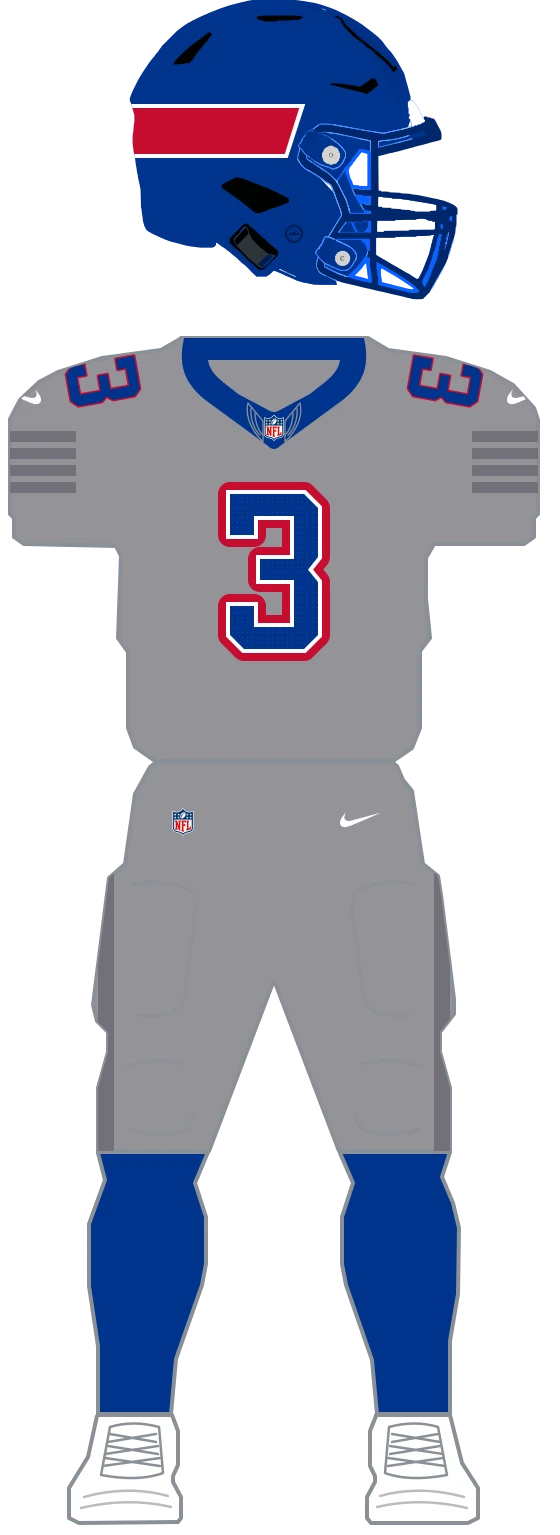
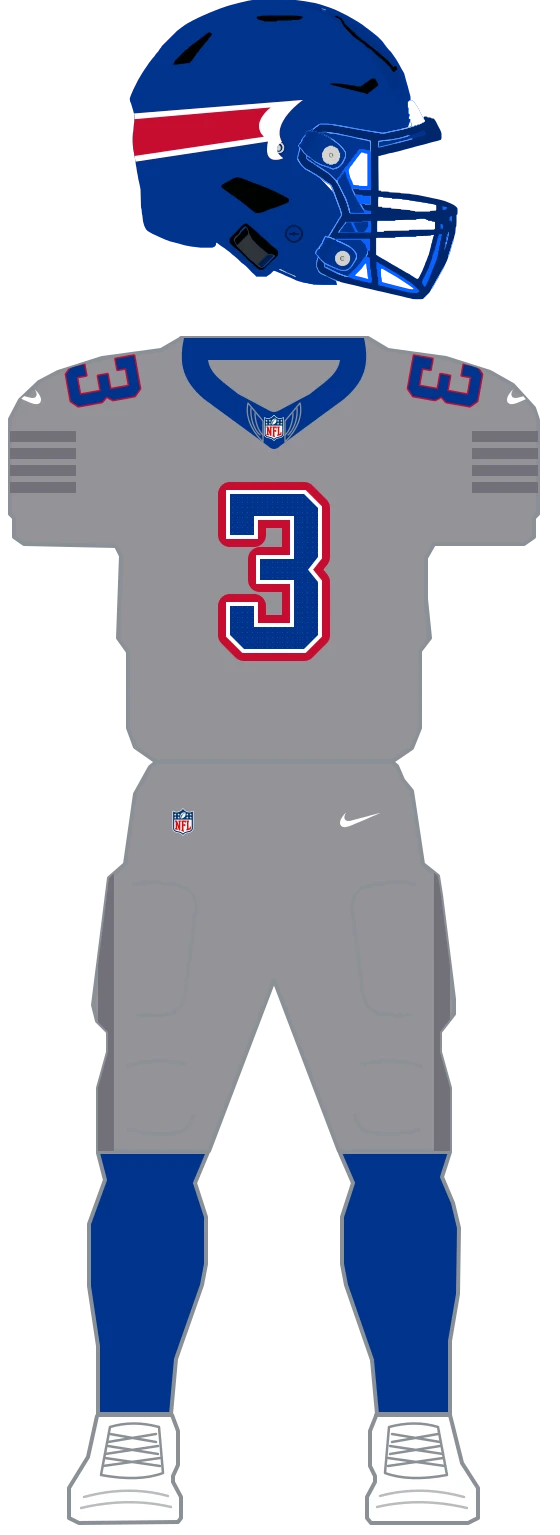
feat(uniforms): draw the Charge helmet streak and horn from the supplied mark (DEP-450)

Changed region(s): [[0.2429, 0.0612, 0.5464, 0.1225]]

diff --git a/web/lib/uniforms/teams/bills/marks/decal.ts b/web/lib/uniforms/teams/bills/marks/decal.ts
@@ -7,3 +7,10 @@ export const BILLS_HELMET_DECAL_BUFFALO_PATH =
   'M459.6,124.1 L467.5,124.5 L475.0,127.4 L479.0,130.4 L482.0,127.4 L493.2,137.8 L502.9,149.6 L507.7,157.4 L510.1,162.9 L518.9,162.9 L533.5,165.9 L541.0,170.7 L545.3,177.3 L546.5,181.0 L547.7,192.5 L546.8,195.1 L546.5,204.3 L542.9,229.1 L538.0,243.5 L530.7,253.8 L527.4,260.5 L524.7,270.8 L521.0,279.3 L517.4,282.3 L507.4,284.1 L504.1,291.2 L495.0,304.5 L492.6,301.9 L480.8,315.2 L480.2,315.2 L479.9,313.3 L482.0,293.4 L481.4,290.8 L478.0,287.1 L448.4,288.2 L447.5,288.9 L446.0,296.7 L442.3,304.5 L436.3,311.8 L432.3,314.8 L423.8,317.8 L405.7,320.7 L390.5,320.7 L389.6,320.0 L373.3,328.8 L372.7,328.8 L372.7,327.7 L373.6,324.0 L374.5,322.9 L378.4,308.2 L386.6,304.5 L388.1,302.6 L387.2,298.9 L390.8,298.5 L396.9,296.0 L404.2,291.2 L404.2,289.3 L362.1,290.0 L358.7,294.1 L341.8,292.3 L321.8,292.6 L305.7,296.0 L294.2,300.4 L287.0,304.5 L278.8,310.4 L266.1,322.6 L257.0,334.0 L247.3,348.8 L230.6,364.3 L227.9,375.0 L227.0,376.2 L224.3,386.9 L221.9,393.2 L221.0,393.2 L211.3,375.4 L215.2,364.7 L214.9,358.4 L220.7,353.2 L227.0,344.7 L229.1,340.7 L230.6,332.5 L231.9,330.3 L245.2,319.6 L257.3,306.3 L265.8,293.4 L272.1,278.2 L277.9,277.8 L280.0,276.7 L285.8,276.4 L296.1,273.8 L299.7,273.8 L312.1,270.8 L317.9,270.5 L328.2,267.9 L357.8,263.1 L360.3,262.0 L366.0,261.6 L368.1,260.5 L373.9,260.1 L384.2,257.5 L389.9,257.2 L400.2,254.6 L406.0,254.2 L416.3,251.6 L419.9,251.6 L432.3,248.7 L436.0,248.7 L448.4,245.7 L478.0,240.9 L480.5,239.8 L486.2,239.4 L488.3,238.3 L502.3,236.5 L504.4,235.3 L508.3,235.7 L508.0,245.7 L510.8,249.8 L517.7,249.8 L518.0,249.0 L514.1,243.5 L514.1,239.8 L517.1,235.7 L515.9,228.0 L516.5,222.0 L521.0,212.4 L531.0,200.6 L530.4,199.5 L522.3,201.0 L515.6,201.0 L507.4,202.5 L452.6,207.3 L448.4,208.4 L408.1,211.7 L404.2,212.8 L349.0,217.6 L345.1,218.7 L334.5,219.1 L330.3,220.2 L319.7,220.6 L300.6,223.2 L293.3,223.2 L293.3,222.0 L299.7,216.1 L316.6,202.8 L337.8,189.5 L351.5,182.9 L352.7,181.0 L351.2,180.3 L350.9,179.2 L355.1,177.3 L360.6,170.3 L372.4,161.4 L388.4,151.1 L412.6,139.3 L426.3,134.8 L435.7,133.3 L436.6,132.2 L435.4,129.7 L435.7,127.4 L457.8,126.0 L459.3,124.5 Z M323.3,298.5 L325.1,298.5 L325.4,299.7 L322.4,303.0 L269.4,355.1 L257.6,386.9 L256.4,386.9 L246.1,369.5 L251.8,359.9 L251.8,355.5 L257.0,350.7 L261.8,344.0 L264.3,337.3 L264.6,333.3 L267.0,330.0 L277.9,318.1 L285.2,312.2 L292.4,307.8 L310.6,300.4 L315.1,300.0 L317.3,298.9 L323.0,298.9 Z M450.5,291.9 L460.5,291.9 L461.7,296.3 L461.7,317.4 L459.3,323.3 L456.9,326.6 L451.7,331.1 L441.1,335.5 L420.5,339.9 L415.4,339.2 L403.3,345.8 L400.5,346.2 L405.1,327.7 L405.1,325.2 L406.0,324.0 L414.8,323.7 L430.2,321.1 L434.4,319.6 L439.6,316.3 L445.0,309.6 L447.2,305.6 L449.6,297.8 L450.2,292.3 Z';
 export const BILLS_HELMET_DECAL_STRIPE_PATH =
   'M505.9,205.8 L510.1,205.8 L510.1,206.9 L505.3,212.4 L502.9,217.2 L502.0,222.8 L502.9,226.8 L505.3,230.5 L504.1,232.0 L500.2,232.0 L495.9,233.5 L473.8,236.8 L471.7,237.9 L459.3,239.4 L455.3,240.9 L451.4,240.9 L447.2,242.4 L443.2,242.4 L439.0,243.8 L435.0,243.8 L430.8,245.3 L426.9,245.3 L422.6,246.8 L402.3,249.8 L398.4,251.2 L394.2,251.2 L390.2,252.7 L386.0,252.7 L382.1,254.2 L378.1,254.2 L373.9,255.7 L369.9,255.7 L365.7,257.2 L361.8,257.2 L357.5,258.6 L337.2,261.6 L333.3,263.1 L329.1,263.1 L325.1,264.5 L320.9,264.5 L317.0,266.0 L313.0,266.0 L308.8,267.5 L304.8,267.5 L300.6,269.0 L280.3,271.9 L276.4,273.4 L272.1,273.4 L268.2,274.9 L264.0,274.9 L260.0,276.4 L255.8,276.4 L251.8,277.8 L247.6,277.8 L243.7,279.3 L239.4,279.3 L235.5,280.8 L231.6,280.8 L211.0,285.2 L205.2,285.6 L205.2,283.8 L227.0,236.8 L228.2,235.3 L237.9,233.9 L245.2,233.9 L252.1,232.4 L259.1,232.4 L266.1,230.9 L273.3,230.9 L280.3,229.4 L287.3,229.4 L294.2,228.0 L301.5,228.0 L308.5,226.5 L315.7,226.5 L322.7,225.0 L329.7,225.0 L336.6,223.5 L343.6,223.5 L350.9,222.0 L357.8,222.0 L364.8,220.6 L386.3,219.1 L393.3,217.6 L400.2,217.6 L407.2,216.1 L414.5,216.1 L421.4,214.7 L428.4,214.7 L435.4,213.2 L442.3,213.2 L449.6,211.7 L456.5,211.7 L463.8,210.2 L470.8,210.2 L477.7,208.7 L485.0,208.7 L492.0,207.3 L505.6,206.2 Z';
+
+// The Charge helmet's streak and its white edge and horn, in raw helmet coordinates; the edge path
+// traces the outer contour and then the streak's inner contour, leaving the streak showing.
+export const BILLS_CHARGE_STREAK_PATH =
+  'M484.4,268.0 L485.0,268.0 L485.0,268.4 L482.9,269.6 L479.7,272.3 L476.8,274.6 L474.5,276.6 L472.3,278.5 L469.0,281.5 L466.3,284.0 L462.0,288.3 L460.5,290.0 L458.5,292.2 L457.0,293.9 L454.8,296.6 L452.1,300.1 L449.6,303.5 L447.2,307.5 L445.5,310.3 L443.1,315.1 L441.2,319.8 L439.8,324.7 L438.9,329.2 L438.7,330.9 L438.7,337.3 L439.4,341.4 L440.6,345.7 L442.2,349.6 L443.3,351.7 L443.1,352.3 L440.8,353.7 L438.3,356.0 L436.5,358.0 L434.8,360.7 L433.8,363.4 L433.6,364.2 L433.6,368.7 L434.4,371.6 L435.9,374.5 L437.7,376.9 L440.2,379.6 L442.2,381.5 L445.5,383.9 L445.5,384.5 L442.2,385.8 L437.5,387.0 L435.0,387.4 L432.8,387.6 L428.5,387.6 L425.0,387.0 L422.3,386.0 L420.2,384.8 L417.8,382.5 L415.9,379.6 L414.9,377.1 L414.1,374.1 L413.7,371.4 L413.5,368.9 L413.5,365.6 L414.1,358.6 L415.3,351.7 L415.3,351.0 L388.6,355.1 L360.4,359.5 L296.9,369.1 L84.1,401.4 L80.0,402.0 L80.0,300.5 L83.5,300.1 L255.4,286.3 L476.6,268.6 Z';
+export const BILLS_CHARGE_EDGE_PATH =
+  'M484.4,268.0 L485.0,268.0 L485.0,268.4 L482.9,269.6 L479.7,272.3 L476.8,274.6 L474.5,276.6 L472.3,278.5 L469.0,281.5 L466.3,284.0 L462.0,288.3 L460.5,290.0 L458.5,292.2 L457.0,293.9 L454.8,296.6 L452.1,300.1 L449.6,303.5 L447.2,307.5 L445.5,310.3 L443.1,315.1 L441.2,319.8 L439.8,324.7 L438.9,329.2 L438.7,330.9 L438.7,337.3 L439.4,341.4 L440.6,345.7 L442.2,349.6 L443.3,351.7 L443.1,352.3 L440.8,353.7 L438.3,356.0 L436.5,358.0 L434.8,360.7 L433.8,363.4 L433.6,364.2 L433.6,368.7 L434.4,371.6 L435.9,374.5 L437.7,376.9 L440.2,379.6 L442.2,381.5 L445.5,383.9 L445.5,384.5 L442.2,385.8 L437.5,387.0 L435.0,387.4 L432.8,387.6 L428.5,387.6 L425.0,387.0 L422.3,386.0 L420.2,384.8 L417.8,382.5 L415.9,379.6 L414.9,377.1 L414.1,374.1 L413.7,371.4 L413.5,368.9 L413.5,365.6 L414.1,358.6 L415.3,351.7 L415.3,351.0 L388.6,355.1 L360.4,359.5 L296.9,369.1 L84.1,401.4 L80.0,402.0 L80.0,390.3 L80.2,390.1 L101.0,387.0 L156.1,378.8 L301.0,357.2 L403.2,342.0 L407.1,341.4 L406.7,340.6 L404.2,338.1 L401.9,335.0 L400.7,332.9 L399.1,329.2 L397.8,324.5 L397.6,323.5 L397.6,317.1 L398.4,313.0 L399.9,308.7 L402.1,304.0 L404.2,300.7 L406.3,297.8 L408.9,294.5 L410.8,292.4 L412.2,290.8 L415.1,287.9 L416.7,286.5 L418.8,284.6 L420.7,283.2 L420.7,283.0 L416.1,283.2 L412.8,283.6 L406.9,284.0 L399.9,284.6 L393.5,285.2 L378.5,286.5 L364.7,287.7 L352.2,288.7 L345.2,289.4 L331.0,290.6 L311.9,292.2 L304.1,292.9 L290.3,294.1 L276.1,295.3 L257.0,297.0 L249.4,297.6 L245.5,298.0 L237.7,298.6 L211.4,300.9 L152.0,306.0 L136.9,307.2 L123.0,308.5 L87.6,311.6 L81.6,312.0 L80.0,312.0 L80.0,300.5 L83.5,300.1 L255.4,286.3 L476.6,268.6 Z';

diff --git a/web/lib/uniforms/teams/bills/marks/construction.ts b/web/lib/uniforms/teams/bills/marks/construction.ts
@@ -1,6 +1,11 @@
 // Buffalo's helmet decals, bound to palette keys. Each export is a placed mark, emitted exactly
 // as written.
-import { BILLS_HELMET_DECAL_BUFFALO_PATH, BILLS_HELMET_DECAL_STRIPE_PATH } from './decal';
+import {
+  BILLS_CHARGE_EDGE_PATH,
+  BILLS_CHARGE_STREAK_PATH,
+  BILLS_HELMET_DECAL_BUFFALO_PATH,
+  BILLS_HELMET_DECAL_STRIPE_PATH,
+} from './decal';
 import { placed } from '../../core/marks';
 import type { PartLayer } from '../../core/parts';
 
@@ -38,12 +43,8 @@ export const BILLS_ICE_DECAL = placed([
   outline('bills-helmet-stripe-outline', BILLS_HELMET_DECAL_STRIPE_PATH),
 ]);
 
-// The Charge helmet's streak: a red band across the side of the shell from the back, with a thin
-// white edge, ending in a slanted cut ahead of the ear hole. The shell clip trims its back end.
-const CHARGE_EDGE_PATH = 'M120,276 L490,276 L455,384 L120,384 Z';
-const CHARGE_STREAK_PATH = 'M120,284 L478,284 L449,376 L120,376 Z';
-
+// The Charge helmet: the red streak with its white edge and horn painted over it.
 export const BILLS_CHARGE_DECAL = placed([
-  fill('bills-charge-edge', CHARGE_EDGE_PATH, 'white'),
-  fill('bills-charge-streak', CHARGE_STREAK_PATH, 'red'),
+  fill('bills-charge-streak', BILLS_CHARGE_STREAK_PATH, 'red'),
+  fill('bills-charge-edge', BILLS_CHARGE_EDGE_PATH, 'white'),
 ]);

diff --git a/web/scripts/uniform-draw/bills_charge.py b/web/scripts/uniform-draw/bills_charge.py
@@ -1,0 +1,90 @@
+"""Regenerates the Charge helmet streak from the supplied standalone mark.
+
+    python3 scripts/uniform-draw/bills_charge.py --check
+
+The input is ``nfl-uniform-refs/bills/bills-charge-mark.svg``, outside this repository. It holds a
+full-frame background rectangle (dropped), the red streak and horn, and the white edge and horn
+painted over it. Both paths are polylines in relative commands; they are made absolute and fitted,
+at their true aspect, to a box on the side of the shell running from behind the back edge (the
+shell clip trims it) to the horn ahead of the ear hole.
+"""
+
+import re
+import sys
+from pathlib import Path
+
+sys.path.insert(0, str(Path(__file__).resolve().parent))
+
+from drawkit import main  # noqa: E402
+
+REF = Path.home() / 'Documents/GitHubProjects/nfl-uniform-refs/bills/bills-charge-mark.svg'
+MODULE = Path(__file__).resolve().parents[2] / 'lib/uniforms/teams/bills/marks/decal.ts'
+# Raw helmet space: the art's left edge sits behind the shell and its horn ends ahead of the ear hole.
+X0, X1 = 80.0, 485.0
+CENTER_Y = 335.0
+
+
+def polygons(svg):
+    out = []
+    for tag in re.finditer(r'<path([^>]*)/>', svg):
+        attrs = tag.group(1)
+        fill = re.search(r'fill="([^"]+)"', attrs).group(1).upper()
+        if fill == '#03358B':
+            continue
+        tx, ty = map(float, re.search(r'translate\(([-\d.]+),?([-\d.]*)\)', attrs).groups() or (0, 0))
+        d = re.search(r'\sd="([^"]+)"', attrs).group(1)
+        x = y = 0.0
+        rings, ring = [], []
+        for cmd, args in re.findall(r'([mMlLhHvVzZ])([^mMlLhHvVzZ]*)', d):
+            nums = [float(n) for n in re.findall(r'-?\d*\.?\d+', args)]
+            if cmd in 'zZ':
+                if ring:
+                    rings.append(ring)
+                ring = []
+                continue
+            if cmd in 'hH':
+                for n in nums:
+                    x = x + n if cmd == 'h' else n
+                    ring.append((x, y))
+            elif cmd in 'vV':
+                for n in nums:
+                    y = y + n if cmd == 'v' else n
+                    ring.append((x, y))
+            else:
+                pairs = list(zip(nums[0::2], nums[1::2]))
+                for i, (a, b) in enumerate(pairs):
+                    if cmd in 'ml':
+                        x, y = x + a, y + b
+                    else:
+                        x, y = a, b
+                    if cmd in 'mM' and i == 0 and ring:
+                        rings.append(ring)
+                        ring = []
+                    ring.append((x, y))
+        if ring:
+            rings.append(ring)
+        out.append((fill, [[(px + tx, py + (ty or 0)) for px, py in r] for r in rings]))
+    return out
+
+
+def build():
+    polys = polygons(REF.read_text())
+    pts = [p for _, rings in polys for r in rings for p in r]
+    ax0, ax1 = min(p[0] for p in pts), max(p[0] for p in pts)
+    ay0, ay1 = min(p[1] for p in pts), max(p[1] for p in pts)
+    scale = (X1 - X0) / (ax1 - ax0)
+    oy = CENTER_Y - (ay1 - ay0) * scale / 2
+
+    def fmt(rings):
+        parts = []
+        for r in rings:
+            xy = ['%.1f,%.1f' % (X0 + (px - ax0) * scale, oy + (py - ay0) * scale) for px, py in r]
+            parts.append('M' + xy[0] + ''.join(' L' + p for p in xy[1:]) + ' Z')
+        return ' '.join(parts)
+
+    names = {'#C20D3A': 'BILLS_CHARGE_STREAK_PATH', '#FEFEFE': 'BILLS_CHARGE_EDGE_PATH'}
+    return {names[fill]: fmt(rings) for fill, rings in polys}
+
+
+if __name__ == '__main__':
+    main(build, MODULE)
